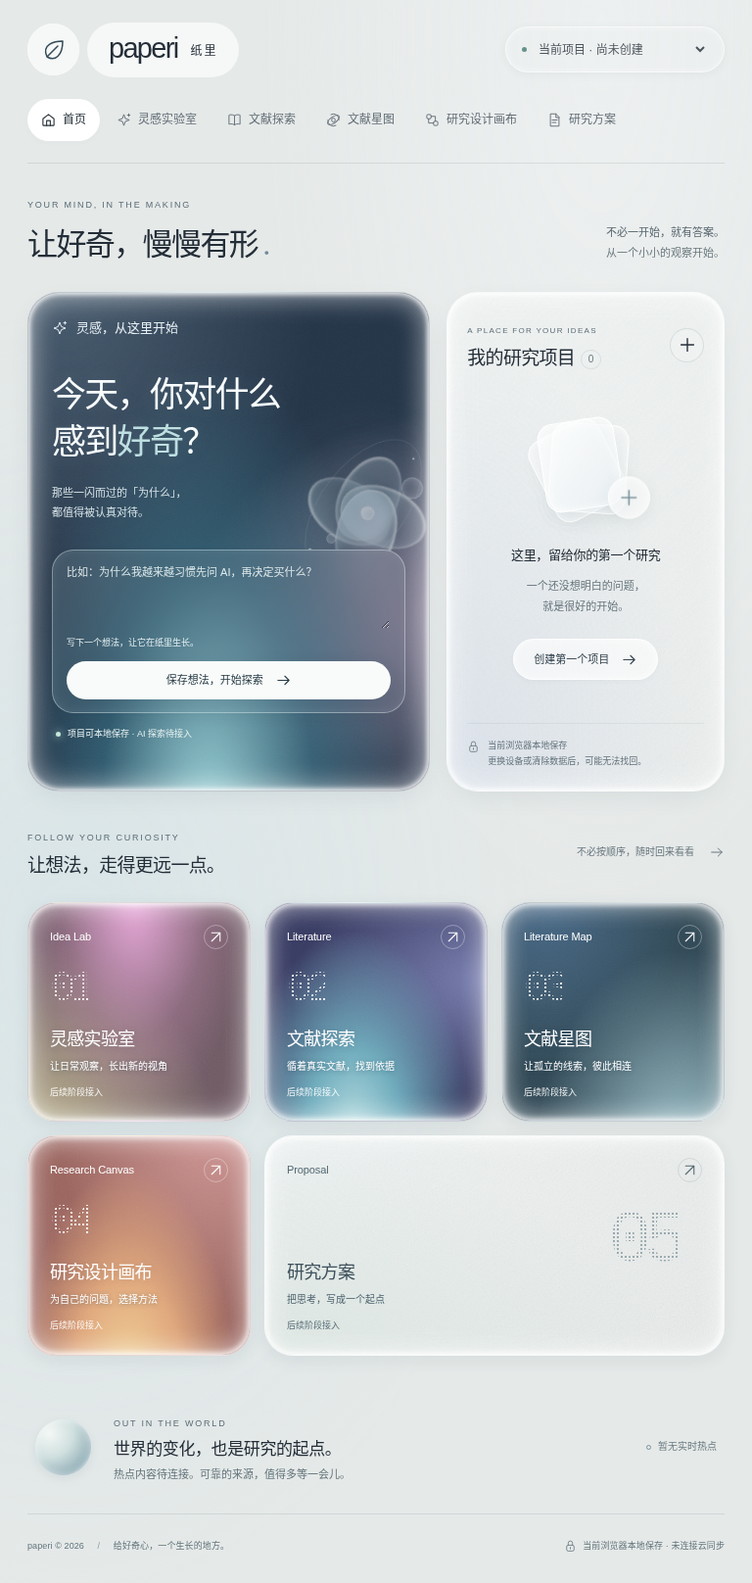
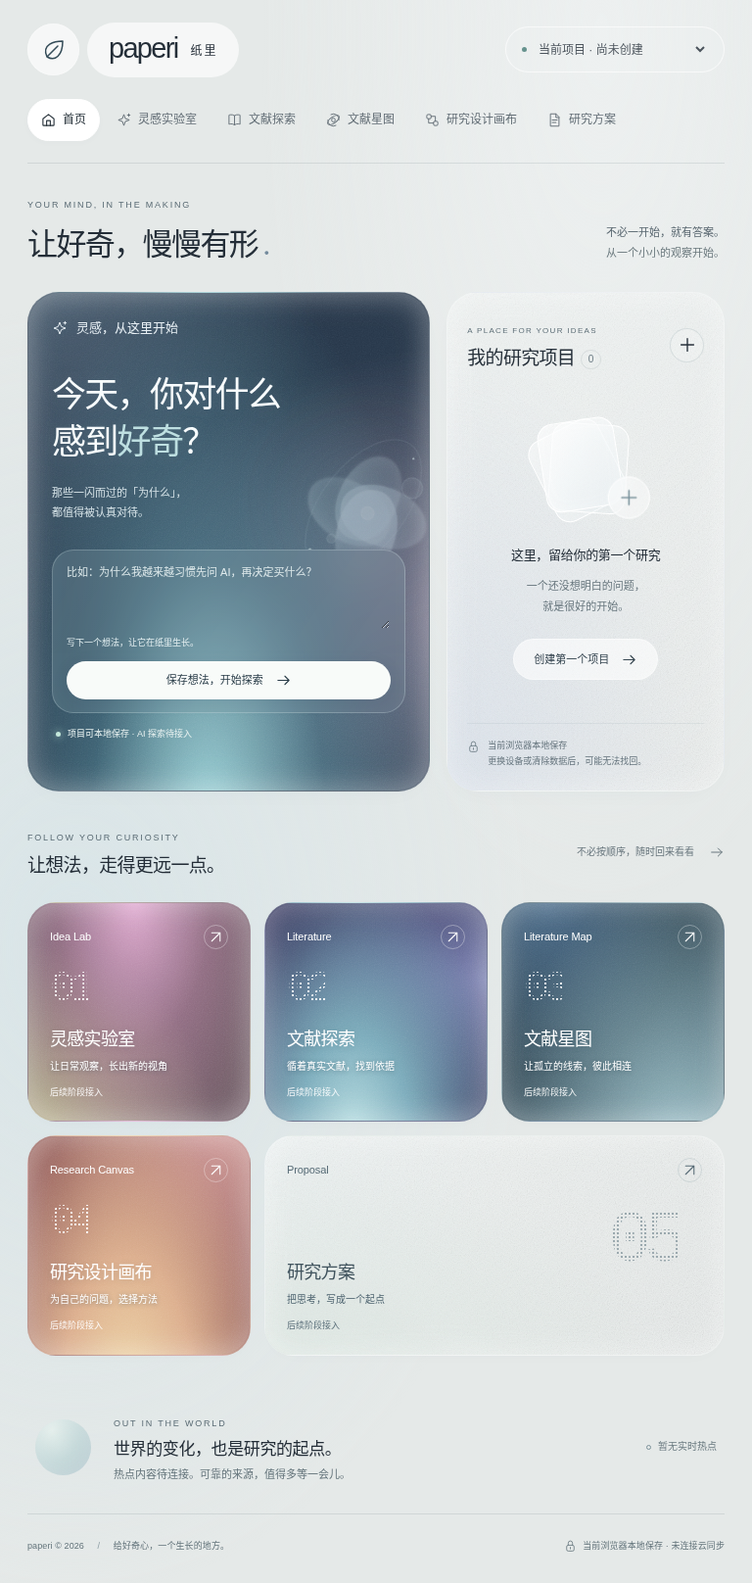
Refine Paperi materials with diffuse rims and matte grain

diff --git a/src/app/globals.css b/src/app/globals.css
@@ -10,7 +10,7 @@
   --lavender: #aaa4d5;
   --peach: #eda9a0;
   --radius: 42px;
-  --edge: inset 0 0 5px 1px rgb(255 255 255 / 85%), inset 0 0 29px 3px rgb(255 255 255 / 44%);
+  --edge: inset 0 0 24px 2px rgb(255 255 255 / 24%);
 }
 @theme inline {
   --color-background: var(--canvas);
@@ -49,7 +49,7 @@ h1, h2, h3, p { margin: 0; }
 .header-motto { font-size: 12px; letter-spacing: -.1px; color: #4b5b64; margin-right: auto; padding-left: 15px; }
 .header-motto span { color: #69777e; }
 .header-actions { display: flex; align-items: center; gap: 10px; }
-.project-selector { display: flex; align-items: center; gap: 8px; border-radius: 32px; border: 1px solid #fff9; box-shadow: 0 2px 9px #3d5e6710, inset 0 0 6px #fff6; padding: 8px 16px; background: #f1f4f345; }
+.project-selector { display: flex; align-items: center; gap: 8px; border-radius: 32px; border: 1px solid #fff9; box-shadow: none; padding: 8px 16px; background: #f1f4f345; }
 .project-selector select { max-width: 210px; width: 177px; border: 0; background: transparent; font-size: 12px; min-height: 29px; text-overflow: ellipsis; cursor: pointer; }
 .project-selector select:disabled { opacity: .8; }
 .local-dot { display: inline-block; width: 5px; height: 5px; border-radius: 50%; background: #65928d; flex-shrink: 0; }
@@ -72,10 +72,11 @@ h1 { font-size: clamp(29px, 2.7vw, 40px); font-weight: 400; line-height: 1.45; l
 .page-heading>p { font-size: 12px; line-height: 1.9; color: #58666f; padding-bottom: 4px; text-align: right; }
 .page-heading>p>span { color: #6b797e; }
 .home-workspace { display: grid; grid-template-columns: minmax(0, 1.93fr) minmax(330px, 1fr); gap: 24px; }
-.frosted-surface { position: relative; isolation: isolate; border: 1px solid #ffffffb3; border-radius: var(--radius); box-shadow: var(--edge), 0 8px 30px -12px #31485829; overflow: hidden; }
-.frosted-surface::before { content: ''; position: absolute; z-index: 0; inset: 0; border-radius: inherit; background: url('/grain.svg'); opacity: .24; mix-blend-mode: soft-light; pointer-events: none; }
-.frosted-surface::after { content: ''; position: absolute; z-index: 5; inset: 0; border-radius: inherit; box-shadow: inset 0 0 7px 1px #ffffff80, inset 0 0 27px 3px #ffffff30; pointer-events: none; }
-.hero { min-height: 498px; padding: 30px 34px 22px; color: #f8fcfd; background: radial-gradient(ellipse at 45% 110%, #a3dce0 0%, #3d83987a 35%, transparent 62%), radial-gradient(ellipse at 110% 65%, #bfabc4b3 0%, transparent 45%), radial-gradient(ellipse at 10% 0%, #6b82947a, transparent 48%), #253548; }
+/* Diffuse rim and background-only grain keep the material matte and text crisp. */
+.frosted-surface { position: relative; isolation: isolate; border: 1px solid #ffffff45; border-radius: var(--radius); box-shadow: var(--edge), 0 8px 32px -20px #31485816; overflow: hidden; }
+.frosted-surface::before { content: ''; position: absolute; z-index: 0; inset: 0; border-radius: inherit; background: url('/grain.svg'); opacity: .48; mix-blend-mode: soft-light; pointer-events: none; }
+.frosted-surface::after { content: ''; position: absolute; z-index: 5; inset: 0; border-radius: inherit; background: #f0f5f703; box-shadow: inset 0 0 38px 4px #ffffff24; pointer-events: none; }
+.hero { min-height: 498px; padding: 30px 34px 22px; color: #f8fcfd; background: radial-gradient(ellipse at 45% 110%, #a3dce0 0%, #518c9c80 38%, transparent 76%), radial-gradient(ellipse at 110% 65%, #bfabc48c 0%, transparent 59%), radial-gradient(ellipse at 10% 0%, #6b82947a, transparent 48%), #253548; }
 .hero>* { position: relative; z-index: 2; }
 .hero-topline { display: flex; justify-content: space-between; align-items: center; gap: 12px; font-size: 13px; font-weight: 400; color: #e7eff4; }
 .hero-topline>span:first-child { display: inline-flex; align-items: center; gap: 9px; }.hero-edition { font-size: 9px; letter-spacing: 1.9px; opacity: .8; }
@@ -83,7 +84,7 @@ h1 { font-size: clamp(29px, 2.7vw, 40px); font-weight: 400; line-height: 1.45; l
 .hero h2 { font-size: clamp(35px, 3.3vw, 49px); line-height: 1.35; font-weight: 400; letter-spacing: -2.4px; text-shadow: 0 1px 22px #c8e5f022; }
 .hero h2 span { color: #bedfe1; }
 .hero-intro>p { margin-top: 19px; color: #d5e2e7; font-size: 12px; line-height: 1.85; }
-.idea-input { margin-top: 28px; border: 1px solid #f1ffff63; border-radius: 25px; background: linear-gradient(125deg, #eaffff1c, #edf4ff0c); box-shadow: inset 0 0 12px #fff1, 0 5px 14px #0b29350c; backdrop-filter: blur(20px); padding: 17px 18px 13px; }
+.idea-input { margin-top: 28px; border: 1px solid #f1ffff38; border-radius: 25px; background: linear-gradient(125deg, #eaffff1c, #edf4ff0c); box-shadow: none; backdrop-filter: blur(28px); padding: 17px 18px 13px; }
 .idea-input:focus-within { border-color: #f2fffeaa; background-color: #fff1; }
 .idea-input textarea { width: 100%; display: block; padding: 0; min-height: 57px; max-height: 150px; border: 0; background: transparent; font-size: 12px; resize: vertical; line-height: 1.8; color: white; }
 .idea-input textarea:focus-visible { outline: 0; }
@@ -95,18 +96,18 @@ h1 { font-size: clamp(29px, 2.7vw, 40px); font-weight: 400; line-height: 1.45; l
 .button.primary:hover:not(:disabled) { background: #3a4f61; transform: translateY(-1px); }
 .hero .button.primary { color: #263a46; background: #f8fbf9; box-shadow: 0 3px 16px #0b1f361a; }
 .hero .button.primary:hover:not(:disabled) { background: #fff; box-shadow: 0 2px 18px #c7efff60; }
-.button.secondary { background: #fff9; color: #34444f; border-color: #fffc; box-shadow: inset 0 0 9px #fff8, 0 2px 5px #3e56610a; }
+.button.secondary { background: #fff9; color: #34444f; border-color: #ffffff70; box-shadow: none; }
 .button.secondary:hover:not(:disabled) { background: #fff; box-shadow: 0 3px 14px #4a606512; }
 .button.danger { color: white; background: #984d58; }
 .hero-disclaimer { display: flex; align-items: center; gap: 7px; font-size: 10px; color: #e6f0ef; padding: 14px 4px 0; }
 .status-light { width: 5px; height: 5px; border-radius: 50%; background: #c5e9dc; box-shadow: 0 0 8px #c5e9dc; }
 .glass-bloom { width: 265px; height: 265px; position: absolute; z-index: 1; right: 20px; top: 75px; transform: rotate(-17deg); pointer-events: none; }
-.bloom-aura { position: absolute; inset: 20%; border-radius: 50%; background: #9ecac9; filter: blur(35px); opacity: .3; }
-.bloom-petal { position: absolute; width: 116px; height: 160px; top: 46px; left: 70px; border-radius: 70% 50% 62% 50%; background: linear-gradient(140deg, #eef8f955, #c2d7ef04 50%, #d7cce841); box-shadow: inset 1px 1px 3px #ffffffe0, inset -2px -4px 14px #c1e6e848, 5px 16px 22px #122a3c26; border: 1px solid #ffffff63; backdrop-filter: blur(5px); transform-origin: 55% 70%; }
+.bloom-aura { position: absolute; inset: 20%; border-radius: 50%; background: #9ecac9; filter: blur(46px); opacity: .36; }
+.bloom-petal { position: absolute; width: 116px; height: 160px; top: 46px; left: 70px; border-radius: 70% 50% 62% 50%; background: linear-gradient(140deg, #eef8f932, #c2d7ef12 50%, #d7cce832); box-shadow: inset 0 0 19px #e9f8ff38; border: 1px solid #ffffff24; backdrop-filter: blur(14px); filter: blur(.8px); transform-origin: 55% 70%; }
 .petal-one { transform: rotate(-50deg); }.petal-two { transform: rotate(35deg); }.petal-three { transform: rotate(120deg); }.petal-four { transform: rotate(205deg); }
-.bloom-core { position: absolute; left: 47%; top: 51%; width: 26px; height: 26px; border-radius: 50%; background: linear-gradient(140deg, #f8ffffc9, #a1c2cc29); border: 1px solid #fff8; box-shadow: 0 0 25px #e4ffff80, inset 0 0 7px #fff8; }
+.bloom-core { position: absolute; left: 47%; top: 51%; width: 26px; height: 26px; border-radius: 50%; background: #e0f2f145; border: 1px solid #ffffff30; box-shadow: 0 0 29px #e4ffff38; filter: blur(.7px); }
 .bloom-orbit { position: absolute; inset: -10%; width: 120%; height: 120%; fill: none; stroke: #ddf3f975; stroke-width: .65; }.bloom-orbit circle { fill: #eaffff; stroke: none; }
-.bloom-satellite { position: absolute; border: 1px solid #eaffff78; background: #eaf9ff0d; border-radius: 50%; box-shadow: inset 0 0 7px #fff5; }.satellite-one { width: 22px; height: 22px; right: 8px; top: 59px; }.satellite-two { width: 10px; height: 10px; left: 27px; bottom: 45px; }
+.bloom-satellite { position: absolute; border: 1px solid #eaffff38; background: #eaf9ff0d; border-radius: 50%; box-shadow: inset 0 0 12px #ffffff20; filter: blur(.4px); }.satellite-one { width: 22px; height: 22px; right: 8px; top: 59px; }.satellite-two { width: 10px; height: 10px; left: 27px; bottom: 45px; }
 .projects-section { display: flex; flex-direction: column; padding: 29px 27px 23px; background: radial-gradient(ellipse at 0% 110%, #ced7e6a1, transparent 65%), linear-gradient(135deg, #f2f6f58c, #ffffff30); }
 .projects-section>* { position: relative; z-index: 2; }
 .section-heading { display: flex; justify-content: space-between; align-items: center; gap: 16px; }
@@ -116,40 +117,40 @@ h1 { font-size: clamp(29px, 2.7vw, 40px); font-weight: 400; line-height: 1.45; l
 .icon-button:hover:not(:disabled) { background: #ffffff9c; transform: rotate(5deg); }
 .project-empty { flex: 1; display: flex; flex-direction: column; align-items: center; justify-content: center; text-align: center; padding: 29px 0 27px; }
 .empty-object { position: relative; width: 121px; height: 106px; margin: 3px 0 23px; transform: rotate(-9deg); }
-.empty-object>span { position: absolute; width: 79px; height: 91px; top: 0; left: 16px; border: 1px solid #fff; border-radius: 16px; background: linear-gradient(130deg, #ffffff67, #d8e5e938); box-shadow: inset 0 0 10px #fff9, 0 10px 16px #65778a0c; }
+.empty-object>span { position: absolute; width: 79px; height: 91px; top: 0; left: 16px; border: 1px solid #fff; border-radius: 16px; background: linear-gradient(130deg, #ffffff67, #d8e5e938); box-shadow: inset 0 0 20px #ffffff30; }
 .empty-object>span:nth-child(1) { transform: rotate(-18deg) translate(-5px, 4px); }.empty-object>span:nth-child(2) { transform: rotate(13deg) translate(9px, 3px); }.empty-object>span:nth-child(3) { background: linear-gradient(135deg, #fff9, #ebf1f48a); }
-.empty-object>i { position: absolute; right: 0; bottom: -2px; display: grid; place-items: center; width: 43px; height: 43px; border: 1px solid #fff; border-radius: 50%; background: #fff6; color: #79929b; backdrop-filter: blur(8px); box-shadow: inset 0 0 9px #fff8, 0 4px 15px #65758a1c; transform: rotate(9deg); }
+.empty-object>i { position: absolute; right: 0; bottom: -2px; display: grid; place-items: center; width: 43px; height: 43px; border: 1px solid #fff; border-radius: 50%; background: #fff6; color: #79929b; backdrop-filter: blur(8px); box-shadow: none; transform: rotate(9deg); }
 .project-empty h3 { font-size: 15px; font-weight: 400; letter-spacing: -.3px; }.project-empty p { color: #67767d; font-size: 12px; margin-top: 10px; line-height: 1.9; }.project-empty .button { margin-top: 23px; font-size: 11px; min-height: 42px; padding: 11px 20px; }
 .storage-note { margin-top: auto; padding-top: 15px; display: flex; gap: 8px; font-size: 10px; color: #63727b; border-top: 1px solid #718a941c; line-height: 1.75; }.storage-note svg { flex-shrink: 0; margin-top: 2px; }
 .project-grid { display: grid; gap: 12px; padding: 22px 2px; max-height: 357px; overflow: auto; scrollbar-width: thin; scrollbar-color: #afbec2 transparent; }
-.project-card { min-width: 0; border: 1px solid #fff9; background: #ffffff40; border-radius: 23px; padding: 17px; }.project-card.selected { background: linear-gradient(120deg, #ffffffa6, #e9f0f35c); border-color: #fff; box-shadow: inset 0 0 12px #fff8; }
+.project-card { min-width: 0; border: 1px solid #fff9; background: #ffffff40; border-radius: 23px; padding: 17px; }.project-card.selected { background: linear-gradient(120deg, #ffffffa6, #e9f0f35c); border-color: #ffffff80; box-shadow: none; }
 .project-card-top { display: flex; justify-content: space-between; align-items: center; gap: 10px; margin-bottom: 10px; }.project-symbol { width: 29px; height: 29px; display: grid; place-items: center; border-radius: 50%; background: #e2ebee; color: #637f88; }.project-status { font-size: 9px; border: 1px solid #9aadb844; padding: 2px 9px; border-radius: 20px; color: #516975; }
 .project-card h3 { font-weight: 400; font-size: 15px; line-height: 1.7; overflow-wrap: anywhere; }.project-discipline { font-size: 10px; color: #5f707a; margin-top: 7px; }.project-time { font-size: 9px; color: #687b85; margin-top: 12px; }.project-card-actions { display: flex; justify-content: space-between; gap: 7px; align-items: center; flex-wrap: wrap; border-top: 1px solid #7d939517; margin-top: 11px; padding-top: 8px; }.project-card-actions>div { display: flex; }
 .text-button { display: inline-flex; align-items: center; justify-content: center; gap: 8px; min-height: 37px; padding: 8px 0; font-size: 12px; color: #385a6a; }.text-button:hover { text-decoration: underline; text-underline-offset: 5px; }.small-button { padding: 7px 6px; min-height: 34px; font-size: 10px; color: #526974; }.small-button:hover { text-decoration: underline; }.delete-button:hover { color: #9b4a52; }
 .journey-section { margin-top: 34px; }.journey-section .section-heading { margin-bottom: 22px; }.section-aside { display: inline-flex; align-items: center; gap: 15px; font-size: 11px; color: #69777e; }
 .journey-grid { display: grid; grid-template-columns: repeat(5, minmax(0,1fr)); gap: 16px; }
-.journey-card { min-height: 224px; padding: 20px 20px 22px; color: #fff; display: flex; flex-direction: column; border-radius: 32px; transition: transform .3s, box-shadow .3s; box-shadow: inset 0 0 24px 3px #fff7, inset 0 0 6px 1px #fffc, 0 5px 16px #3b4d5e16; }
-.journey-card:hover { transform: translateY(-6px); box-shadow: inset 0 0 27px 3px #fff9, inset 0 0 7px 1px #fffc, 0 14px 24px -12px #31465844; }
-.journey-card::before { opacity: .3; }
+.journey-card { min-height: 224px; padding: 20px 20px 22px; color: #fff; display: flex; flex-direction: column; border-radius: 32px; transition: transform .3s, box-shadow .3s; box-shadow: var(--edge), 0 6px 22px -16px #3b4d5e12; }
+.journey-card:hover { transform: translateY(-2px); box-shadow: var(--edge), 0 8px 26px -16px #31465826; }
+.journey-card::before { opacity: .52; }
 .journey-card>* { position: relative; z-index: 2; }
-.tone-0 { background: radial-gradient(ellipse at 48% -5%, #edacdf 0%, #cc8db84d 45%, transparent 70%), radial-gradient(ellipse at 5% 115%, #c1ba93, transparent 60%), #705b65; }
-.tone-1 { background: radial-gradient(ellipse at 40% 105%, #b4dce0 0%, #6eabbc 25%, transparent 62%), radial-gradient(ellipse at 100% 35%, #797fb0, transparent 60%), #383b62; }
-.tone-2 { background: radial-gradient(ellipse at 80% 120%, #a4c9d1 0%, transparent 58%), radial-gradient(ellipse at 20% 0%, #486987, transparent 55%), #314956; }
-.tone-3 { background: radial-gradient(ellipse at 45% 120%, #f6db9e 0%, #dfa67b 33%, transparent 63%), radial-gradient(ellipse at 85% -10%, #d29a99, transparent 60%), #9b655f; }
+.tone-0 { background: radial-gradient(ellipse at 48% -5%, #e3acd4 0%, #cc8db859 48%, transparent 85%), radial-gradient(ellipse at 5% 115%, #c1ba93, transparent 60%), #705b65; }
+.tone-1 { background: radial-gradient(ellipse at 40% 105%, #b4dce0 0%, #7aabbb 30%, transparent 79%), radial-gradient(ellipse at 100% 35%, #797fb0, transparent 60%), #383b62; }
+.tone-2 { background: radial-gradient(ellipse at 80% 120%, #a4c9d1 0%, transparent 76%), radial-gradient(ellipse at 20% 0%, #486987, transparent 55%), #314956; }
+.tone-3 { background: radial-gradient(ellipse at 45% 120%, #efd7a6 0%, #dcae8c 38%, transparent 79%), radial-gradient(ellipse at 85% -10%, #d29a99, transparent 60%), #9b655f; }
 .tone-4 { background: radial-gradient(ellipse at 0% 110%, #dae4df, transparent 65%), linear-gradient(140deg, #f8fbfa80, #ffffff1c); color: #3e515c; }
 .journey-card-top { display: flex; align-items: center; justify-content: space-between; gap: 8px; font-size: 10px; letter-spacing: -.1px; color: #fff; }.tone-4 .journey-card-top { color: #536873; }.circle-arrow { display: inline-grid; place-items: center; width: 30px; height: 30px; flex-shrink: 0; border: 1px solid #ffffff57; border-radius: 50%; }.tone-4 .circle-arrow { border-color: #849da340; }
-.journey-number { font-family: 'Courier New', monospace; font-size: 48px; line-height: 1.25; letter-spacing: -6px; margin-top: 13px; width: fit-content; background: radial-gradient(circle, #ffffffe6 1.1px, transparent 1.4px) 0 0 / 4px 4px; background-clip: text; -webkit-background-clip: text; color: transparent; filter: drop-shadow(0 4px 5px #fff4); }
+.journey-number { font-family: 'Courier New', monospace; font-size: 48px; line-height: 1.25; letter-spacing: -6px; margin-top: 13px; width: fit-content; background: radial-gradient(circle, #ffffffe6 1.1px, transparent 1.4px) 0 0 / 4px 4px; background-clip: text; -webkit-background-clip: text; color: transparent; filter: none; }
 .tone-4 .journey-number { background-image: radial-gradient(circle, #526c78c9 1.1px, transparent 1.4px); filter: none; }
 .journey-card-bottom { margin-top: auto; padding-top: 10px; }.journey-card h3 { font-size: 17px; letter-spacing: -.7px; font-weight: 400; text-shadow: 0 1px 9px #243b4a24; }.journey-card p { font-size: 10px; margin-top: 5px; color: #fff; text-shadow: 0 1px 5px #203c4b70; }.journey-status { display: block; font-size: 9px; margin-top: 11px; color: #fff; opacity: .9; }.tone-4 h3,.tone-4 p { text-shadow: none; }.tone-4 p,.tone-4 .journey-status { color: #4c626e; }
 .radar-section { display: flex; align-items: center; gap: 23px; padding: 30px 8px; margin-top: 26px; border-bottom: 1px solid var(--line); }
-.radar-orb { width: 57px; height: 57px; border-radius: 50%; background: radial-gradient(circle at 25% 25%, #f3f8f5 0%, #cfdfde 40%, #91aeb7 75%, #d6dfe4); box-shadow: inset 0 0 9px #fff9, 0 3px 10px #4f6f871a; position: relative; flex-shrink: 0; }.radar-orb::after { content: ''; position: absolute; inset: 0; border-radius: inherit; background-image: url('/grain.svg'); mix-blend-mode: soft-light; opacity: .35; }
+.radar-orb { width: 57px; height: 57px; border-radius: 50%; background: radial-gradient(ellipse at 30% 20%, #e3eeeb 0%, #c4d8d9 50%, #b0c5cc); box-shadow: inset 0 0 20px #ffffff38; position: relative; flex-shrink: 0; }.radar-orb::after { content: ''; position: absolute; inset: 0; border-radius: inherit; background-image: url('/grain.svg'); mix-blend-mode: soft-light; opacity: .35; }
 .radar-section h2 { font-size: 17px; font-weight: 400; letter-spacing: -.4px; margin: 4px 0; }.radar-section p { font-size: 11px; color: #64747b; }.radar-status { margin-left: auto; font-size: 10px; display: flex; align-items: center; gap: 7px; color: #6c7c82; white-space: nowrap; }.radar-status>span { width: 5px; height: 5px; border: 1px solid #7c929a; border-radius: 50%; }
 .footer { padding: 25px 0 31px; display: flex; justify-content: space-between; align-items: center; gap: 18px; font-size: 10px; color: #63747b; letter-spacing: .1px; }.footer>span:last-child { display: flex; align-items: center; gap: 6px; }.footer-dot { margin: 0 11px; color: #8e9fa5; }
 .muted { color: var(--muted); font-size: 12px; line-height: 1.9; }
 .loading-state { display: flex; align-items: center; justify-content: center; gap: 11px; min-height: 150px; padding: 20px; color: #637580; font-size: 12px; }
 .spinner { width: 17px; height: 17px; border: 1px solid #b6c9d1; border-top-color: #385970; border-radius: 50%; animation: spin 1s linear infinite; }@keyframes spin { to { transform: rotate(360deg); } }
 .error-notice { display: flex; align-items: center; justify-content: space-between; gap: 20px; padding: 20px 24px; border: 1px solid #fff; background: #f6e5e4cc; border-radius: 24px; margin-bottom: 24px; font-size: 12px; color: #843e48; }.error-notice p { margin-top: 5px; }.error-notice strong { font-weight: 500; }
-.project-dialog { width: min(500px, calc(100% - 32px)); margin: auto; color: var(--ink); padding: 31px; border-radius: 36px; background: radial-gradient(ellipse at 15% 100%, #cadfe5a1, transparent 70%), #eff4f0e8; backdrop-filter: blur(35px); max-height: 90dvh; overflow-y: auto; box-shadow: var(--edge), 0 35px 110px #162a4b2e; }
+.project-dialog { width: min(500px, calc(100% - 32px)); margin: auto; color: var(--ink); padding: 31px; border-radius: 36px; background: radial-gradient(ellipse at 15% 100%, #cadfe5a1, transparent 70%), #eff4f0e8; backdrop-filter: blur(35px); max-height: 90dvh; overflow-y: auto; box-shadow: var(--edge), 0 22px 90px #162a4b1c; }
 .project-dialog>* { position: relative; z-index: 6; }.project-dialog::backdrop { background: #1d314954; backdrop-filter: blur(10px); }
 .dialog-top { display: flex; align-items: center; justify-content: space-between; gap: 12px; }.dialog-top .icon-button { width: 35px; height: 35px; }.project-dialog h2 { font-size: 25px; font-weight: 400; letter-spacing: -1px; margin: 16px 0 25px; }
 .field-label { display: block; font-size: 13px; margin: 18px 0 8px; }.field-label>span { font-size: 10px; color: #657880; margin-left: 8px; }
@@ -158,7 +159,7 @@ h1 { font-size: clamp(29px, 2.7vw, 40px); font-weight: 400; line-height: 1.45; l
 /* The same material system continues through the research workspace. */
 .back-link { display: inline-flex; font-size: 12px; color: #596f7d; padding: 8px 0; margin: 0 0 15px; }.back-link:hover { text-decoration: underline; text-underline-offset: 5px; }
 .module-heading { padding-bottom: 26px; }.module-heading h1 { margin: 8px 0 12px; }.module-heading>p { color: #5b6e79; font-size: 13px; line-height: 1.9; max-width: 680px; }
-.current-project-panel { display: flex; align-items: center; gap: 13px; padding: 17px 23px; border: 1px solid #fff9; border-radius: 24px; background: #ffffff36; box-shadow: inset 0 0 12px #fff5; margin-bottom: 24px; }.current-project-panel>svg { color: #6b8b91; flex-shrink: 0; }.current-project-panel>div { min-width: 0; }.current-project-panel span { display: block; font-size: 9px; color: #657b87; }.current-project-panel strong { font-weight: 400; font-size: 13px; overflow-wrap: anywhere; }.current-project-panel .text-button { margin-left: auto; flex-shrink: 0; font-size: 11px; }
+.current-project-panel { display: flex; align-items: center; gap: 13px; padding: 17px 23px; border: 1px solid #fff9; border-radius: 24px; background: #ffffff36; box-shadow: none; margin-bottom: 24px; }.current-project-panel>svg { color: #6b8b91; flex-shrink: 0; }.current-project-panel>div { min-width: 0; }.current-project-panel span { display: block; font-size: 9px; color: #657b87; }.current-project-panel strong { font-weight: 400; font-size: 13px; overflow-wrap: anywhere; }.current-project-panel .text-button { margin-left: auto; flex-shrink: 0; font-size: 11px; }
 .module-grid { display: grid; grid-template-columns: minmax(0, 1.9fr) minmax(280px, 1fr); gap: 24px; margin-bottom: 44px; }
 .module-main { background: radial-gradient(ellipse at 50% 120%, #a1cfd6 0%, #4d7c947d 38%, transparent 65%), radial-gradient(ellipse at 110% 50%, #bca5c687, transparent 52%), #293b4c; min-height: 470px; display: flex; flex-direction: column; color: #eff8fa; }
 .module-main>* { position: relative; z-index: 2; }.module-panel-top { padding: 24px 28px; display: flex; justify-content: space-between; align-items: center; gap: 10px; }.soft-badge { display: inline-flex; align-items: center; width: fit-content; padding: 5px 12px; border: 1px solid #edfcff4a; border-radius: 30px; background: #e2f4fb0a; font-size: 10px; white-space: nowrap; color: #e5eff4; }.module-panel-top>.muted { font-size: 10px; color: #d3e2e8; }

diff --git a/docs/DESIGN.md b/docs/DESIGN.md
@@ -5,7 +5,7 @@
 ## 设计方向
 
 - 浅雾灰工作台、深海蓝主卡，青蓝、紫粉与珊瑚色从材质内部透出。
-- 卡片采用较大的圆角、渐隐的内高光边缘、细颗粒和局部背景模糊，兼顾体积感与文字清晰度。
+- 卡片采用较大的圆角、渐隐的内高光边缘、细颗粒和局部背景模糊，保持平面磨砂质感与文字清晰度。
 - 顶部胶囊导航替代固定侧栏。桌面采用主输入区与真实项目区双栏，研究流程入口排在下方；手机切换为单栏与折叠菜单。
 - 首页品牌装饰是原创玻璃花瓣，延续“让好奇慢慢有形”的概念。保留 Paperi 的叶片标识；没有借用参考作品的品牌、统计值或图表。
 - 五个流程入口的点阵数字仅是入口序号；所有 AI、学术数据与导出能力仍明确标注未接入。
@@ -20,3 +20,14 @@
 项目数据格式和保存逻辑沿用阶段 1，无需迁移，不会因本次改版清除本地项目。验证覆盖 1440 / 1280 / 768 / 390 像素与原有项目操作；没有进入阶段 2。
 
 真实运行效果见 [截图预览](PREVIEW.md)。
+
+## 材质微调
+
+保留已确认的布局、配色与阶段 1 功能，仅调整全局 CSS：
+
+- 移除叠加的窄亮边，降低边框与投影对比，用较宽、较淡的内侧漫射光形成柔和边缘。
+- 扩大青蓝、紫粉与珊瑚光晕的过渡范围；增强背景层细颗粒，文字不参与模糊。
+- 降低花瓣、中心小球和辅助装饰的镜面反射；仅装饰使用轻微模糊。
+- 弱化表单和项目卡的凸起感，入口悬停上移由 6px 收到 2px；保留焦点提示。
+
+材质细节和完整页面均由实际浏览器截图记录。

diff --git a/docs/PREVIEW.md b/docs/PREVIEW.md
@@ -1,8 +1,8 @@
-# Paperi · 新版磨砂玻璃视觉
+# Paperi · 磨砂质感微调
 
-这是根据本轮参考图重做后的**真实网页截图**，来自已通过测试的生产构建。
+这是保留原布局与配色、微调磨砂材质后的**真实网页截图**，来自已通过测试的生产构建。
 
-采用浅雾灰工作台、深海蓝磨砂主卡、青紫与珊瑚色光晕、柔化高光边缘及细颗粒。桌面采用双栏工作区和顶部胶囊导航；手机采用单栏与折叠菜单。首页、业务页面与弹窗已统一改版。
+这次减弱了双层亮边和立体阴影，扩大光晕过渡，增强细颗粒并柔化花瓣反光。仍采用浅雾灰工作台、深海蓝主卡及青紫与珊瑚色光晕。桌面采用双栏工作区和顶部胶囊导航；手机采用单栏与折叠菜单。首页、业务页面与弹窗已统一改版。
 
 截图可以直接在 GitHub 查看，无需安装软件。它们是静态图片，不能代替交互网页。项目管理功能仍可运行；AI、论文检索、设计和导出仍在后续阶段范围内。
 
@@ -11,6 +11,12 @@
 1440 像素宽度。右侧展示真实项目区的空状态；底部数字仅为研究环节序号。
 
 ![Paperi 新版桌面首页](screenshots/home-desktop.png)
+
+## 磨砂材质细节
+
+主卡片的实际浏览器局部截图，可查看柔化边缘、细颗粒与花瓣；文字保持清晰。
+
+![Paperi 磨砂材质细节](screenshots/hero-detail.png)
 
 ## 工作区页面
 

diff --git a/docs/TEST_RESULTS.md b/docs/TEST_RESULTS.md
@@ -67,3 +67,15 @@
 最终截图已存入 `docs/screenshots/` 并通过 `docs/PREVIEW.md` 展示，用户可在 GitHub 直接查看。仍未连接或测试阶段 2 的 AI、数据库功能；没有公开部署。
 
 开发模式检查中，Next.js 对 `127.0.0.1` 的开发资源请求触发默认来源保护；使用文档中的 `localhost` 即可正常加载，未放宽来源安全设置。最终交互测试均使用生产模式完成。
+
+## 磨砂材质微调回归
+
+本轮只修改全局 CSS 的高光、投影、光晕、颗粒及装饰材质，业务组件与数据逻辑未变。
+
+- `npm run typecheck`、`npm run lint`、`npm run build`：通过。
+- 旧预览服务占用 3000 端口，默认 `CI=1 npm run test:e2e` 在启动服务检查时退出，未执行测试。
+- 使用临时配置仅将 baseURL 与生产服务端口改为 3002，保留原 13 项测试和所有断言，执行 `CI=1 npm run test:e2e -- --config playwright.material.config.ts`：**13 通过、0 失败、0 跳过，31.1 秒**。临时配置已移除。
+- 截图由本次生产构建生成：首页来自四种尺寸回归，弹窗、业务页与材质近景来自 3003 端口的同一构建。
+- 人工检查桌面、手机、主卡近景；确认文字未被模糊处理，装饰不遮挡输入区。
+
+截图图库同步更新。仍限 Chromium 验证，未公开部署、未进入阶段 2。
